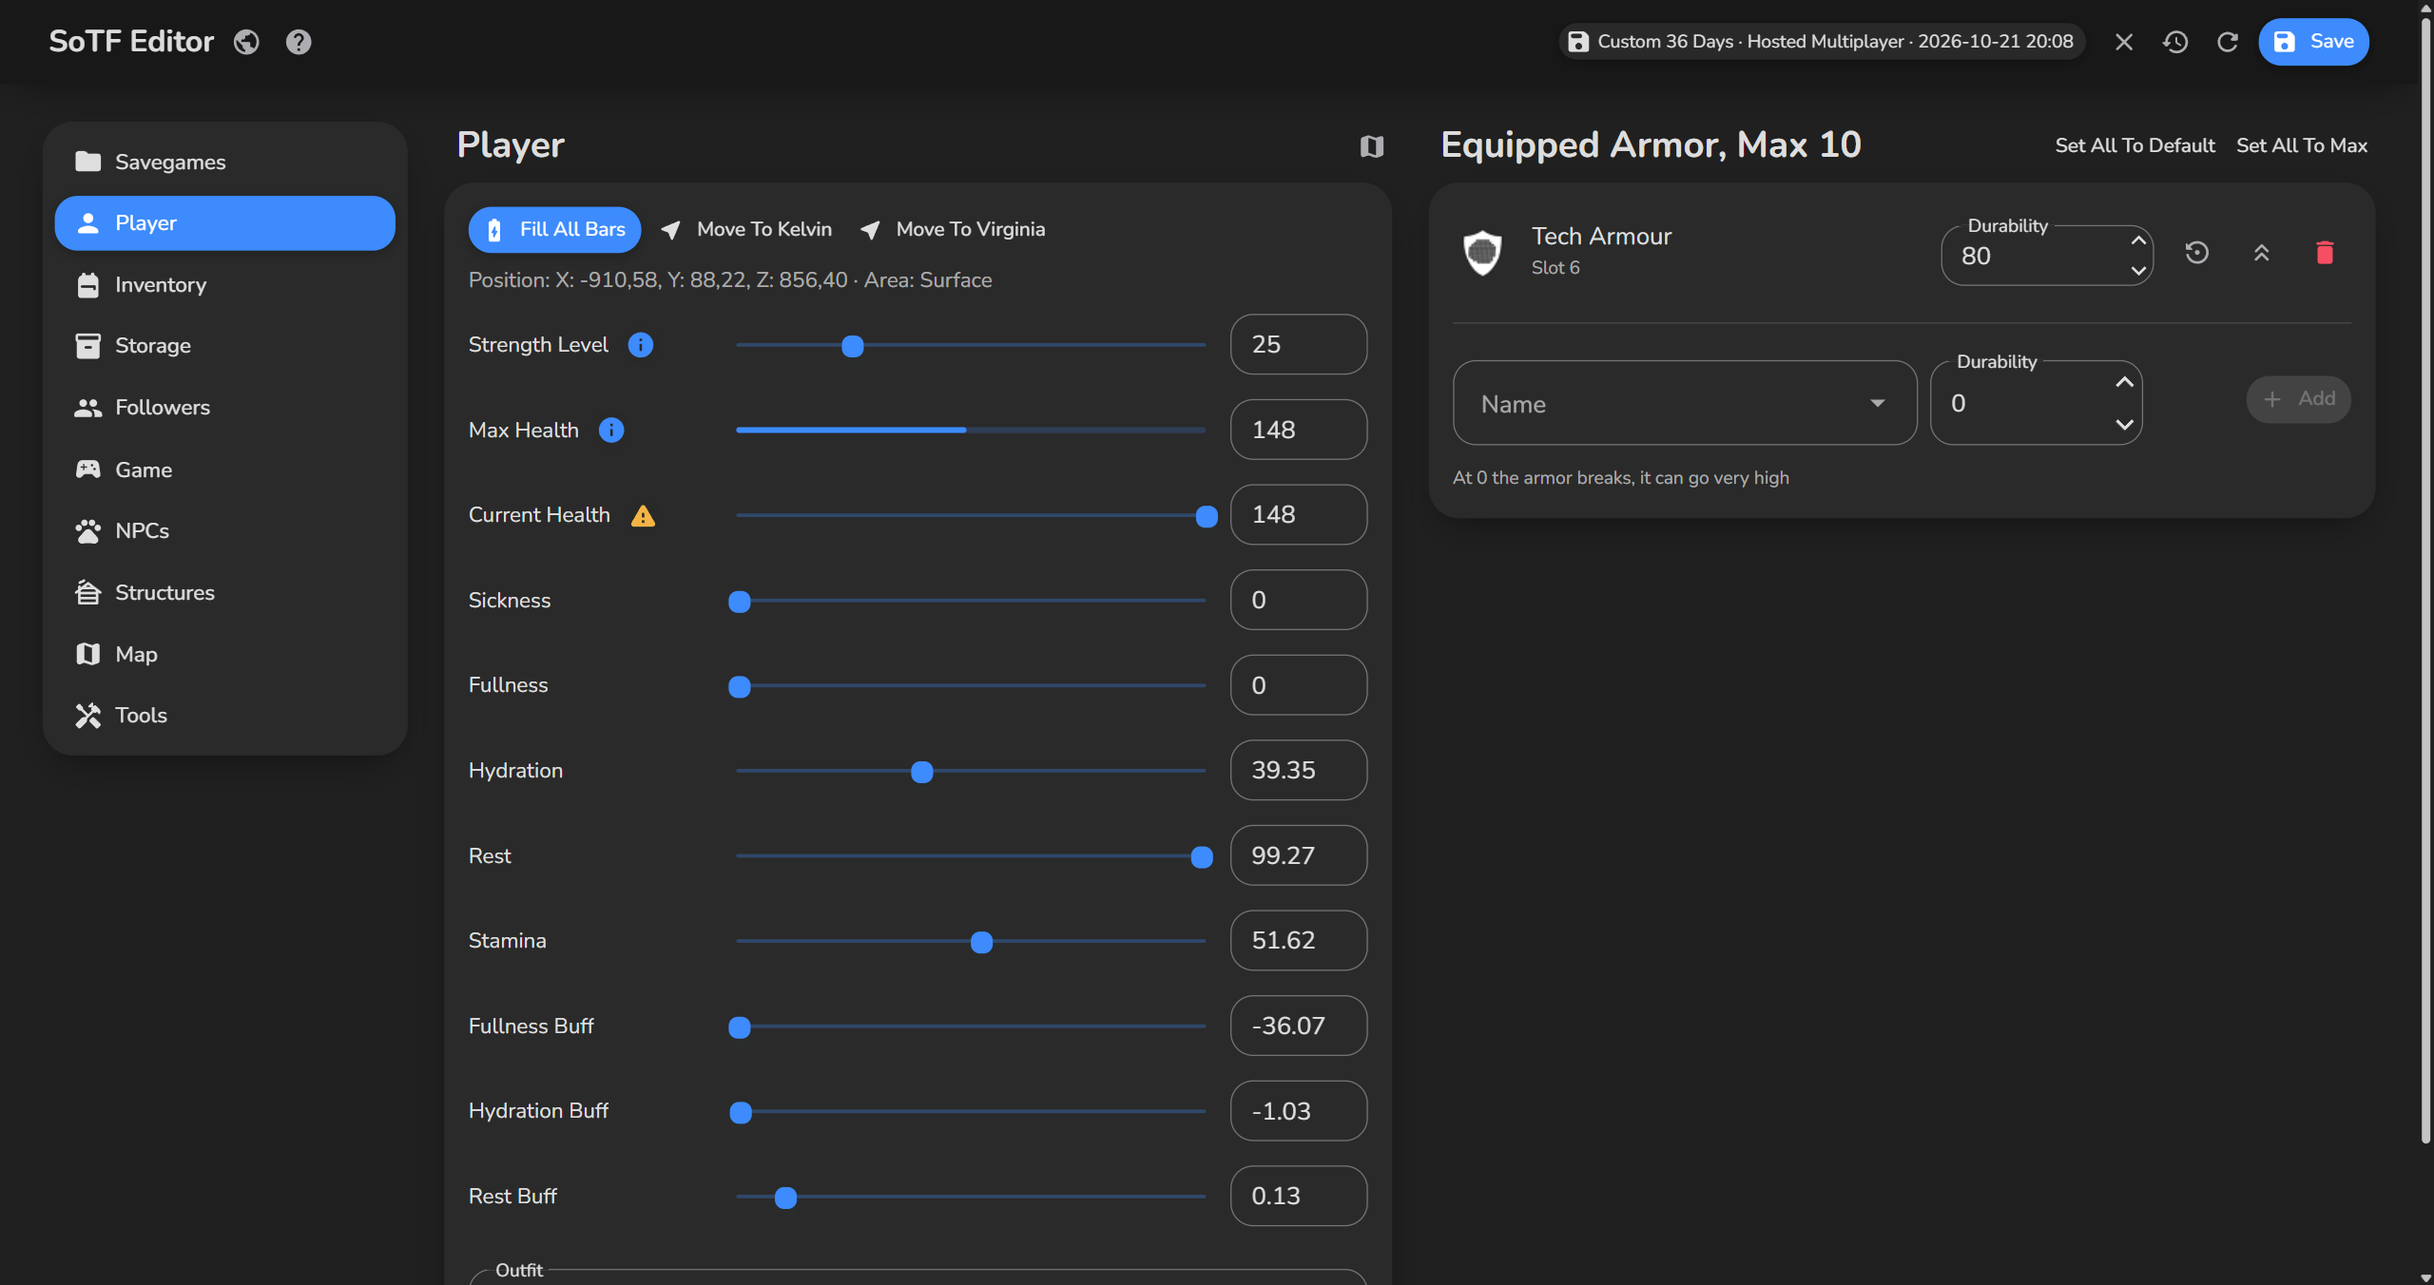
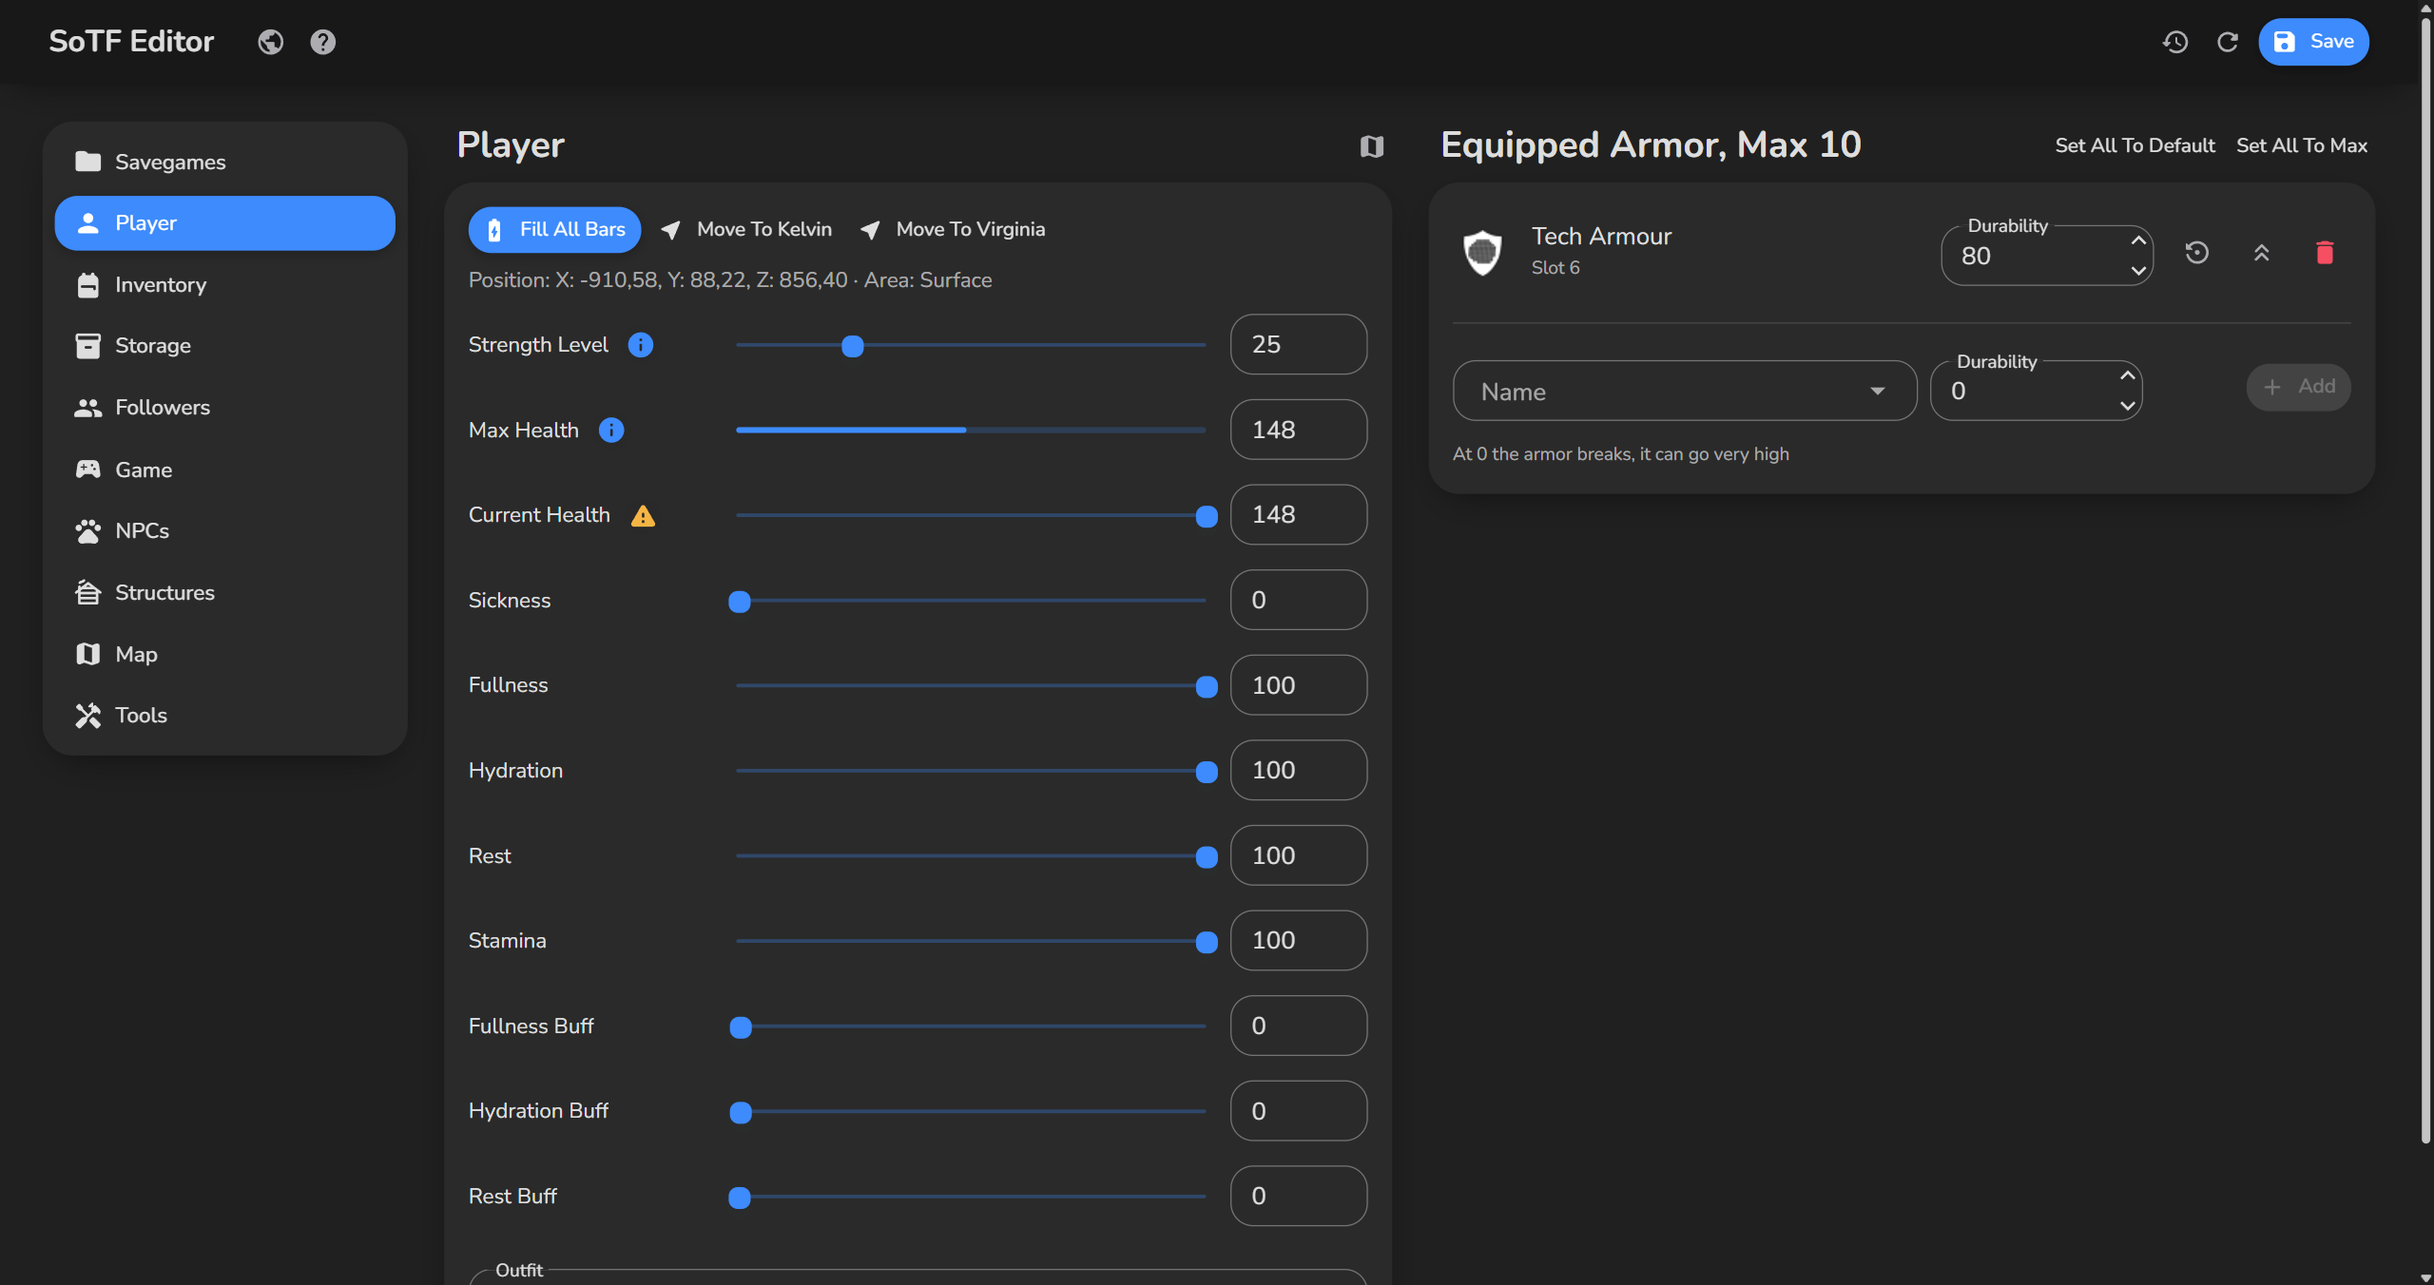
Unified Search With Ctrl F, Cleaner App Bar And Consistent Controls

diff --git a/SoTF.Editor.Desktop/wwwroot/JS/AppShell.js b/SoTF.Editor.Desktop/wwwroot/JS/AppShell.js
@@ -1,4 +1,4 @@
-// Ctrl S Saves And F5 Reloads Through The Visible Buttons
+// Ctrl S Saves, F5 Reloads And Ctrl F Searches
 const isTyping = (target) =>
     target instanceof HTMLElement &&
     (target.isContentEditable || ["INPUT", "TEXTAREA", "SELECT"].includes(target.tagName));
@@ -14,6 +14,14 @@ document.addEventListener("keydown", (event) => {
     } else if (event.key === "F5" && !isTyping(event.target)) {
         event.preventDefault();
         clickShortcut("reload");
+    } else if ((event.ctrlKey || event.metaKey) && event.key.toLowerCase() === "f") {
+        // Ctrl F Jumps To The Page's Search Field
+        const search = document.querySelector(".search-field input");
+        if (search) {
+            event.preventDefault();
+            search.focus();
+            search.select();
+        }
     }
 });
 

diff --git a/SoTF.Editor.Desktop/Components/Layout/MainLayout.razor.cs b/SoTF.Editor.Desktop/Components/Layout/MainLayout.razor.cs
@@ -105,16 +105,6 @@ public partial class MainLayout : IDisposable
         _ = InvokeAsync(StateHasChanged);
     }
 
-    private string SavegameLabel(Savegame savegame)
-    {
-        // The Same Names The Savegames Page Groups By
-        var mode =
-            savegame.IsMultiPlayer() ? "HostedMultiplayer"
-            : savegame.IsMultiPlayerClient() ? "JoinedMultiplayer"
-            : "Singleplayer";
-        return $"{savegame.Name} · {Localizer[mode]} · {Formatter.FormatDateTime(savegame.LastSaveTime)}";
-    }
-
     private void RecoverFromError()
     {
         _errorBoundary?.Recover();
@@ -222,15 +212,6 @@ public partial class MainLayout : IDisposable
         )
         {
             await TryBusyAsync(savegame, MainViewModel.ReloadSavegame, "UnableToOpen");
-        }
-    }
-
-    private async Task CloseAsync()
-    {
-        if (await DialogService.ConfirmDiscardAsync(Localizer, MainViewModel))
-        {
-            MainViewModel.SelectSavegame(null);
-            NavigationManager.NavigateTo("/");
         }
     }
 

diff --git a/SoTF.Editor.Desktop/Components/Shared/Dialogs/UpdateDialog.razor.cs b/SoTF.Editor.Desktop/Components/Shared/Dialogs/UpdateDialog.razor.cs
@@ -67,7 +67,9 @@ public partial class UpdateDialog
             return;
         }
 
+        // A Running Update Cannot Be Closed Halfway
         _isInstalling = true;
+        await SetClosableAsync(false);
         try
         {
             Updater.Launch(await Updater.DownloadAsync(Release));
@@ -97,7 +99,19 @@ public partial class UpdateDialog
             s_logger.Error(exception, "Failed To Update");
             Snackbar.Add(Localizer["UpdateFailed"], Severity.Error);
             _isInstalling = false;
+            await SetClosableAsync(true);
         }
+    }
+
+    private Task SetClosableAsync(bool closable)
+    {
+        return MudDialog.SetOptionsAsync(
+            MudDialog.Options with
+            {
+                CloseButton = closable,
+                CloseOnEscapeKey = closable,
+            }
+        );
     }
 
     private void OpenReleasePage()

diff --git a/SoTF.Editor.Desktop/Components/Pages/Npcs.razor.cs b/SoTF.Editor.Desktop/Components/Pages/Npcs.razor.cs
@@ -36,6 +36,19 @@ public partial class Npcs : EditorPageBase
             ? _selected
             : null;
 
+    private static string DetailOf(Actor actor)
+    {
+        // A Missing Gender Leaves Out Its Part, Not A Dash
+        return string.Join(
+            " · ",
+            new[]
+            {
+                actor.ActorType?.PrintableClassification,
+                actor.ActorType?.PrintableGender,
+            }.Where(part => part is { Length: > 0 } and not "-")
+        );
+    }
+
     private string CollectionRowClass(ActorCollection collection)
     {
         var selected = _selected == collection ? " list-row-selected" : "";

diff --git a/SoTF.Editor.Desktop/Components/Shared/Common/SearchField.razor.cs b/SoTF.Editor.Desktop/Components/Shared/Common/SearchField.razor.cs
@@ -1,0 +1,18 @@
+using Microsoft.AspNetCore.Components;
+
+namespace SoTF.Editor.Desktop.Components.Shared.Common;
+
+public partial class SearchField
+{
+    [Inject]
+    public required IStringLocalizer<SharedResource> Localizer { get; set; }
+
+    [Parameter]
+    public string? Value { get; set; }
+
+    [Parameter]
+    public EventCallback<string> ValueChanged { get; set; }
+
+    [Parameter]
+    public string? Class { get; set; }
+}

diff --git a/CLAUDE.md b/CLAUDE.md
@@ -89,7 +89,7 @@ A Debug build uses `SoTF.Editor Debug` for all of these folders (`AppInfo.Folder
 ## Navigation
 
 - The left menu holds every page, Tools included (`/Tools`). On a client save the world pages (Storage, Followers, Game, NPCs, Structures) are disabled there too (`PageLink.NeedsWorld`).
-- The app bar holds the title, Language and Help on the left. On the right: the savegame chip (its game name, no id and no tooltip; the Savegames cards keep the id) with a grey X beside it that closes the savegame after asking about unsaved edits, then Backups, Reload and Save last, the primary action at the edge. Every item sits 8 px apart; with no savegame the chip and X are gone and the rest is disabled.
+- The app bar holds the title with Language and Help 24 px after it on the left, and Backups, Reload and Save on the right, Save last at the edge; buttons sit 8 px apart and are disabled with no savegame. There is no savegame chip and no close button: the Savegames page marks the open one with its ring, and opening another replaces it.
 - The Tools page lists each tool as a card with an icon, a one-sentence description and a chip: **Needs Save** (most), **Saves At Once** in amber (Item Plater, Unlocks), or **Host Save Only** greyed out for world tools on a client save. A hint at the top says tools need Save like any other edit.
 - Help holds GitHub, **Check For Updates** and About. When a newer version was found, a red dot leads the way until the app restarts, so a dismissed update dialog is not forgotten: a `MudBadge` on Help, then the `update-dot` class on Check For Updates, which draws the same dot after its text.
 - The left menu shows an amber dot on every page with changes (`MainViewModel.HasChanges(route)`), at once: `EditorPageBase` implements `IHandleEvent` and calls `MainViewModel.NotifyChanged` after each of its own UI events, which re-renders the layout. Only events do this, so scrolling a list never re-renders the layout. Every component that edits values inherits it: the pages, `FollowerPanel` and `GenericSettingEditor`. The Map page sets `EditsSavegame` to false, its camera, filters and selection change nothing; zipline edits call `NotifyChanged` from `MapViewModel`.
@@ -136,7 +136,7 @@ The last table row has no bottom line. A table whose rows virtualize keeps its c
 - The Game tab's **Load Preset** menu, an icon menu left of Mode (Normal, Hard, Hard Survival, Peaceful, Creative), fills every setting with that mode's values and switches the mode to Custom, so each one stays editable (`GameSetupPageViewModel.ApplyPreset`, the same table `PrepareSettingsBeforeMerge` writes for a preset mode; Creative also turns on Creative Mode). It asks first. Each setting group has an icon and its own **Set All To Default** (`GameSetupPageViewModel.ResetSettings`, disabled while the group holds no setting), and a preset mode shows a hint instead of the groups.
 - Inventory is one alphabetical list of every item, not virtualized: 377 rows render fast, and virtualizing rows of two heights made scrolling jump. Held items show count, max and delete; the rest are greyed (`not-held`) with a green add button. A Held Only switch, a type filter and Add All From Category sit in the toolbar (`InventoryPageViewModel.Filter`).
 - Map collections with sub groups (Actors, Items, Structures) start folded behind an expand button; their checkbox still covers every sub group.
-- With no saved choice the map shows `MapViewModel.s_defaultGroups` and every structure; **Select All**, **Deselect All** and **Reset** sit in a dense menu behind a filled three dot button beside Points Of Interest. Select All shows every point (3,600 or so, panning gets slow). The defaults are what you go to or want to find: places (bunkers, caves, doors, printers, ziplines), the player and followers, and the items that matter (armour, attachments, blueprints, clothes, equipment, keys, misc, printed, tools, weapons, mods); documents, books and world vehicles stay off. The zoom buttons step by 1.25 and a third button (`FitScreen`, the only one with a tooltip, Show Whole Map) fits the whole map (`sotfMap.reset`).
+- With no saved choice the map shows `MapViewModel.s_defaultGroups` and every structure; **Select All**, **Deselect All** and **Reset** sit in a dense menu behind a plain three dot icon button beside Points Of Interest. Select All shows every point (3,600 or so, panning gets slow). The defaults are what you go to or want to find: places (bunkers, caves, doors, printers, ziplines), the player and followers, and the items that matter (armour, attachments, blueprints, clothes, equipment, keys, misc, printed, tools, weapons, mods); documents, books and world vehicles stay off. The zoom buttons step by 1.25 and a third button (`FitScreen`, the only one with a tooltip, Show Whole Map) fits the whole map (`sotfMap.reset`).
 - Structures lists in a `fit` panel with its filter inside, like World Object States, so a short filtered list shrinks the panel.
 - World Object States rows have a clear button: a cleared value leaves `NamedIntDatas`, which the game reads as never touched, the same as Reset Containers. The name truncates with dots and the value and clear button keep fixed columns.
 - Storage's **Fill Fitting Slots** fills only the slots the picked item fits in.
@@ -148,7 +148,10 @@ The last table row has no bottom line. A table whose rows virtualize keeps its c
 - The NPC page splits 3/9, so its virtualized table keeps `fixed-columns`: at 4/8 the panel was about 730 px wide at 125% scaling and fixed widths left the name 39 px. State and Area truncate with their full text as the title, so long Dutch states and cave names never wrap a row.
 - Rows, cards and map points that select or open something carry `role="button"`, `tabindex` and `data-keyclick`; one handler in `AppShell.js` answers Enter and Space on them. The map is one tab stop: the arrow keys step through the visible points and pan to each, Enter selects. `[data-keyclick]:focus-visible` draws the focus ring.
 - Max Health is derived, so it shows as a read-only bar (`StatSlider ReadOnly`), not a slider, with an info icon saying it follows the strength level.
-- Buttons are never outlined: filled for actions, text for quiet ones, icon buttons in menus.
+- Buttons are never outlined: filled for actions, text for quiet ones, icon buttons in menus. A choice between two views (By Type, By Family) is a pair of small `Color.Info` buttons, filled when selected; `MudToggleGroup` draws outlined items.
+- Every list search is `SearchField`: placeholder Search (Ctrl+F), dense, 300 ms debounce, filling its row or panel. Ctrl F focuses the page's search (`AppShell.js`, `.search-field`), because browser shortcuts are off in the WebView.
+- A row that mixes inputs with small buttons uses `Margin.Dense` inputs (40 px, like the 31 px buttons beside them); a form field on its own stays 56 px. Icon menus in rows are `Size.Small`.
+- Card titles are bold `subtitle1` (savegame and tool cards alike). Empty table values show `-`, and a detail line leaves out a missing part instead of showing a dash (NPC Creep, not Creep · -).
 - Radii: 6 px thumbs, 10 px inner pictures, 15 px buttons, inputs, menus and tabs, 20 px panels, cards, alerts and dialogs (`.mud-dialog` takes `--radius-panel`, or its 20 px cards out round it); chips and switches stay pills.
 - The follower copy picker (Kelvin 1, Kelvin 2) is an outlined select at the top right inside the panel. The portrait is a fixed 96 x 120 crop from the top and never shrinks, or the two panels differ in height. NPC thumbs are round and cropped (`thumb-round`), so odd-sized images line up.
 - Icons are `Icons.Material.Rounded.*`, the filled forms (`Folder`, `Help`, `Error`), never the outlined ones.
@@ -159,7 +162,7 @@ The last table row has no bottom line. A table whose rows virtualize keeps its c
 
 ## Updates
 
-`UpdateChecker.CheckAsync` reads the `releases/latest` redirect and returns the tag and version. It runs on every start (there is no setting) and from **Help → Updates → Check For Updates**; a newer version opens `UpdateDialog` and sets the red dot on Help. The dialog loads the release body through the GitHub API (`AppInfo.ReleaseApiUrl`, no token) and lists it under What Changed; no notes just hide the list. Update Now asks to discard unsaved edits, `Updater.DownloadAsync` runs on the thread pool (`Task.Run`), so the window never stops responding, logs how long it took, and saves `SoTF.Editor_<tag>.exe` beside the running exe from the tag's asset URL (so `v1.5.1` works too), through a `.download` file, `Updater.Launch` starts it with `--after-update <pid>`, and the window closes without asking (`MainWindow.ClosesWithoutAsking`). The new exe calls `Updater.FinishPreviousVersion` before the single-instance check: it waits up to 15 s for the old process and deletes every other `SoTF.Editor_v*.exe` beside it. A protected folder such as Program Files (`UnauthorizedAccessException`) says so and opens the release page. A Debug build or a renamed exe (`Updater.CanInstall` false) opens the release page instead. Build with `-p:Version=0.9` and use Check For Updates to see the dialog.
+`UpdateChecker.CheckAsync` reads the `releases/latest` redirect and returns the tag and version. It runs on every start (there is no setting) and from **Help → Updates → Check For Updates**; a newer version opens `UpdateDialog` and sets the red dot on Help. The dialog loads the release body through the GitHub API (`AppInfo.ReleaseApiUrl`, no token) and lists it under What Changed; no notes just hide the list. Update Now asks to discard unsaved edits and hides the dialog's X and Escape until the download fails or the window closes (`UpdateDialog.SetClosableAsync`), `Updater.DownloadAsync` runs on the thread pool (`Task.Run`), so the window never stops responding, logs how long it took, and saves `SoTF.Editor_<tag>.exe` beside the running exe from the tag's asset URL (so `v1.5.1` works too), through a `.download` file, `Updater.Launch` starts it with `--after-update <pid>`, and the window closes without asking (`MainWindow.ClosesWithoutAsking`). The new exe calls `Updater.FinishPreviousVersion` before the single-instance check: it waits up to 15 s for the old process and deletes every other `SoTF.Editor_v*.exe` beside it. A protected folder such as Program Files (`UnauthorizedAccessException`) says so and opens the release page. A Debug build or a renamed exe (`Updater.CanInstall` false) opens the release page instead. Build with `-p:Version=0.9` and use Check For Updates to see the dialog.
 
 ## Looks Wrong, Is Not
 

diff --git a/README.md b/README.md
@@ -24,7 +24,7 @@ A savegame editor for Sons of the Forest, with a verified backup before every sa
 - Savegame cards show the day, mode and crash site, and joined games also your strength and items
 - Tools on their own page, such as regrow trees, reset fires, traps and containers, and item plating
 - Updates itself in the background from inside the app and shows what changed
-- Every list, card and map point works with the keyboard too
+- Every list, card and map point works with the keyboard too, and Ctrl F jumps to the search field
 - English and Dutch
 
 ## Quick start
